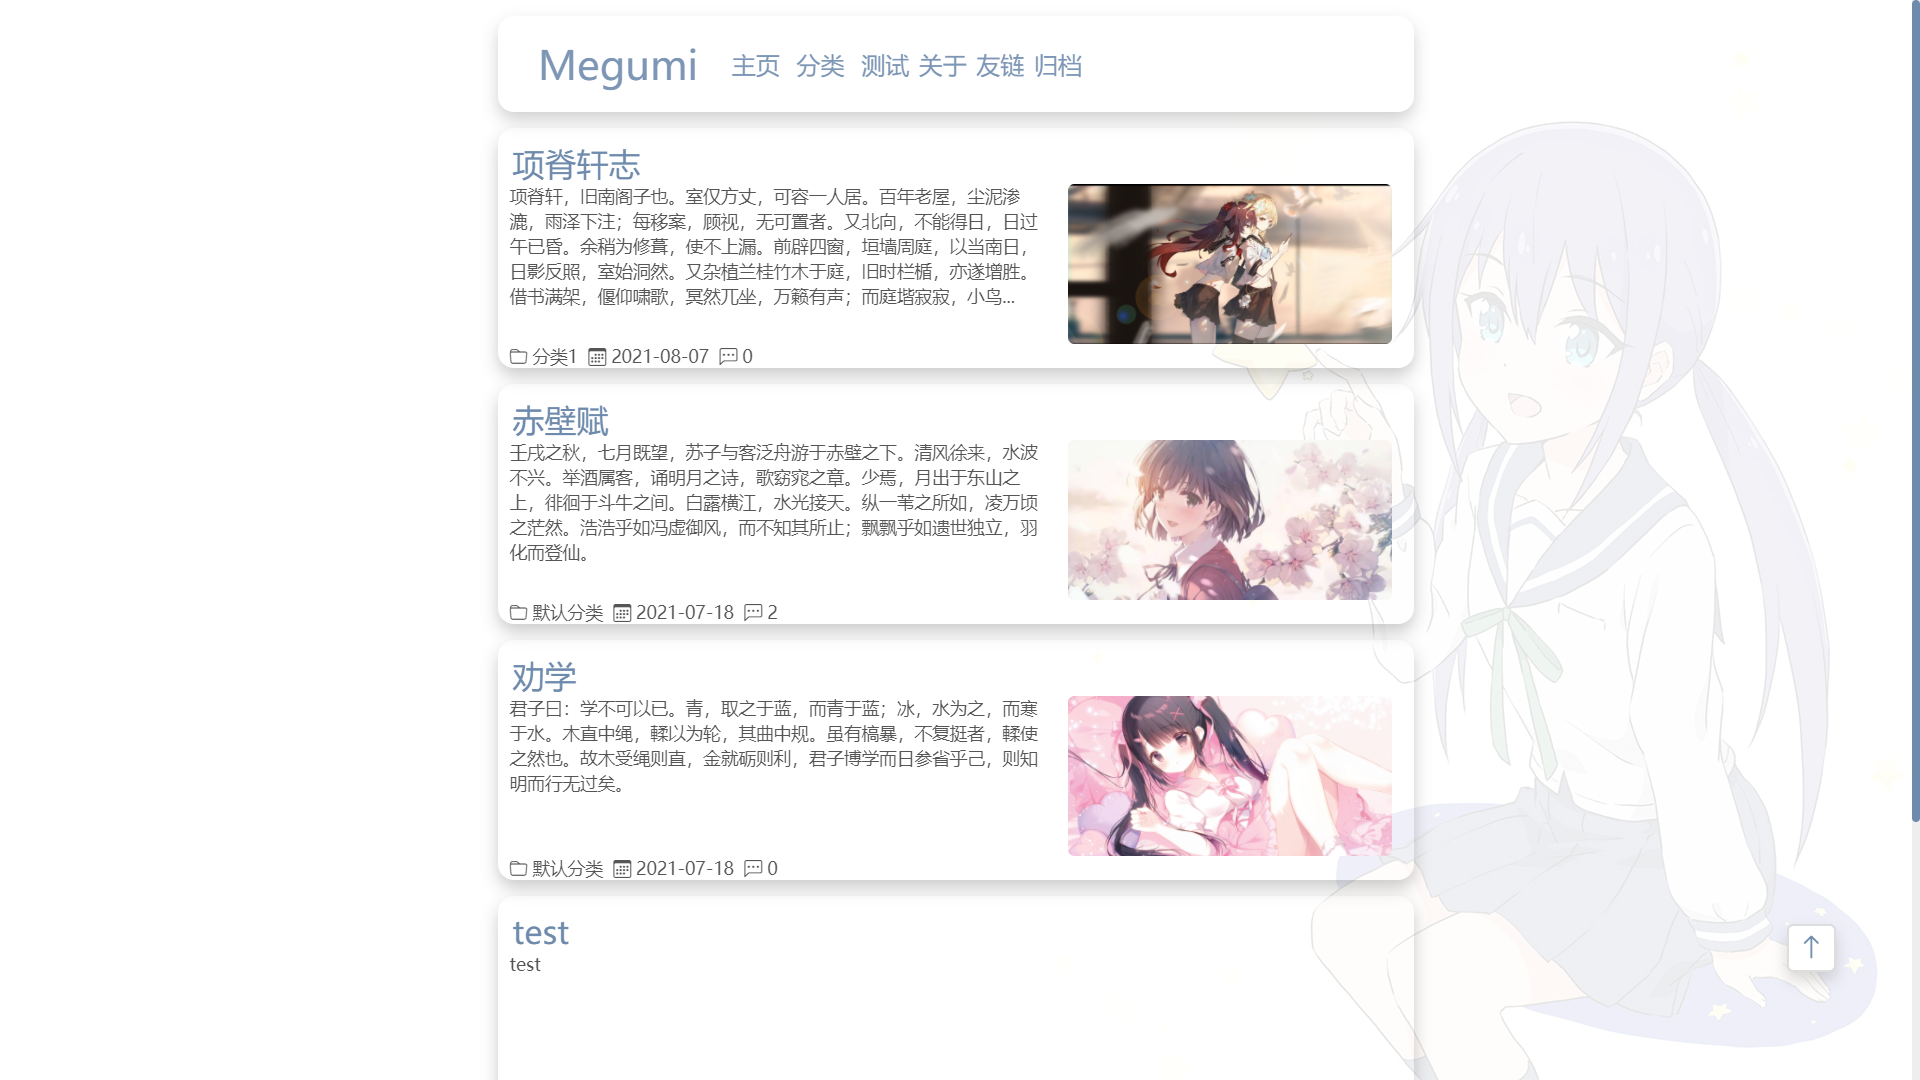
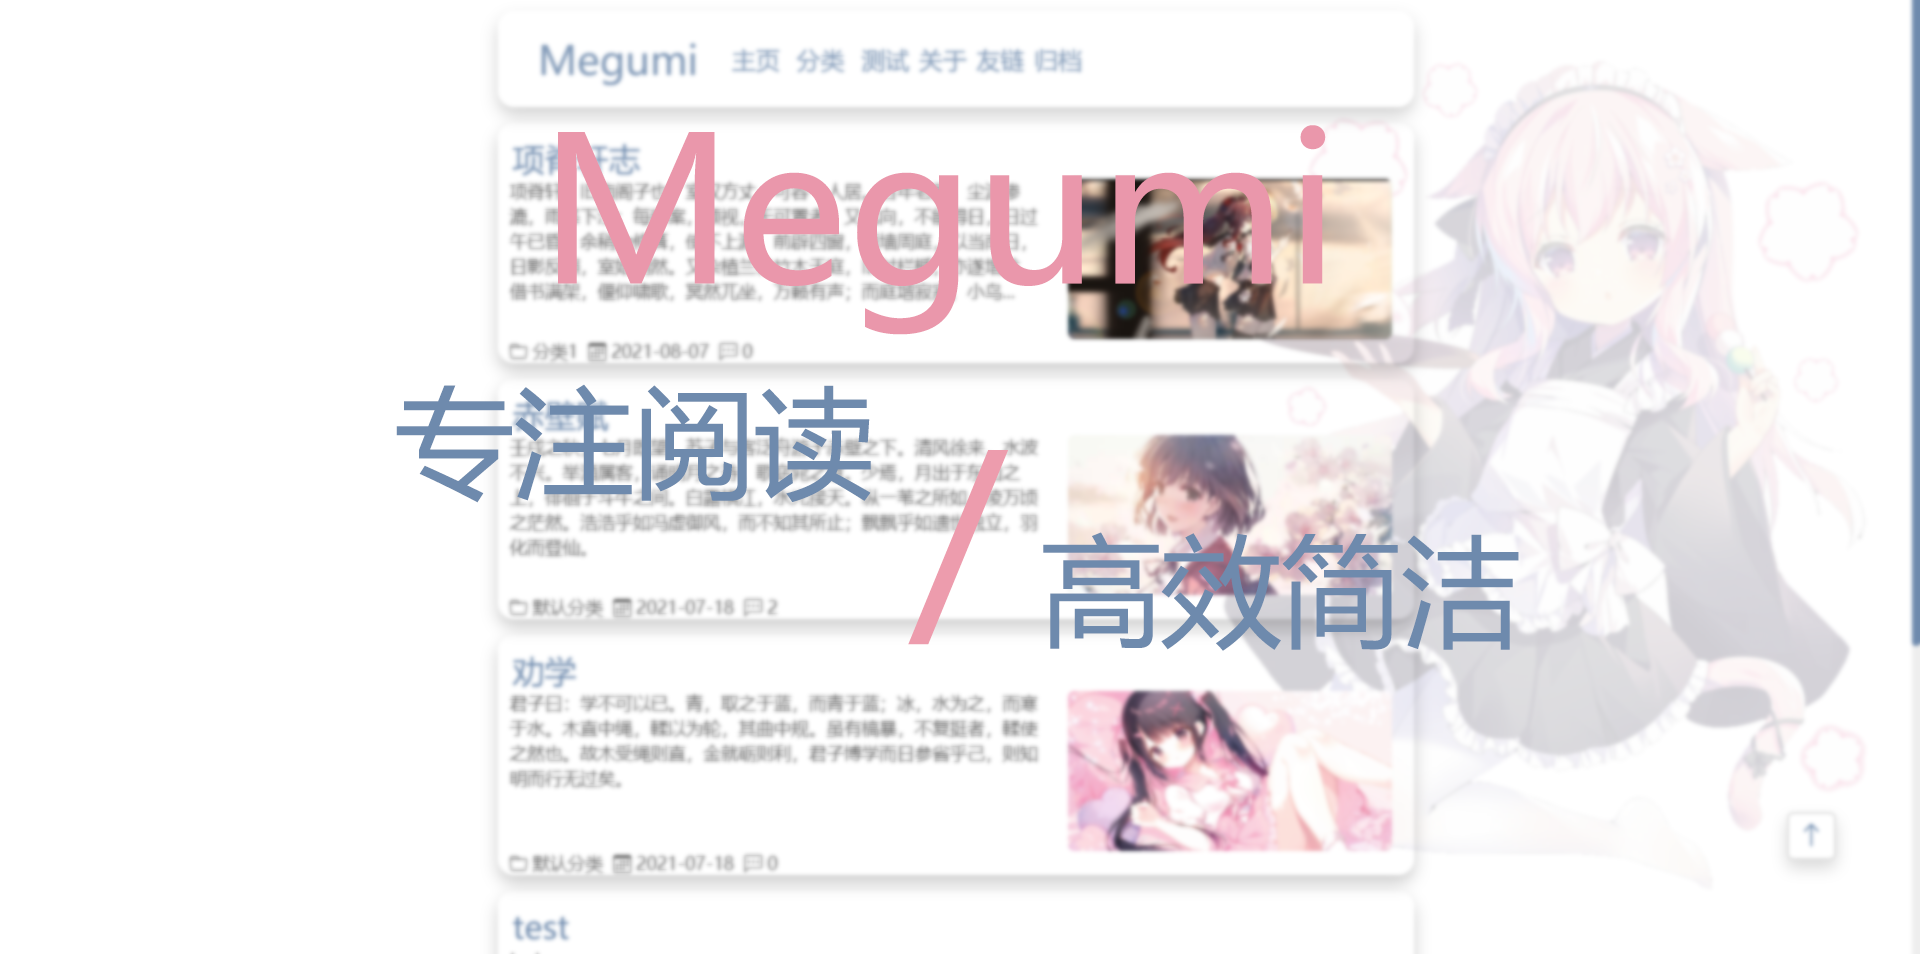
beta 0.8.2

diff --git a/other/style.css b/other/style.css
@@ -30,7 +30,7 @@ body::before{
     left: 0;
     right: 0;
     bottom: 0;
-    opacity: 0.1;
+    /*opacity: 0.2;*/
     z-index: -1;
     position: fixed;
     display: block;

diff --git a/functions.php b/functions.php
@@ -8,6 +8,10 @@ function themeConfig($form) {
     // 自定义背景图
     $background = new Typecho_Widget_Helper_Form_Element_Text('background', NULL, NULL, _t('站点背景'), _t('在这里填入一张图片地址，可以是随机图片API，不填则默认纯白背景'));
     $form -> addInput($background);
+    
+    // 自定义背景图
+    $background_other = new Typecho_Widget_Helper_Form_Element_Text('background_other', NULL, NULL, _t('背景透明度'), _t('在这里填入0~1之间的精确到个位小数，数字越小透明度越高，建议0.1~0.3,不填默认0.1'));
+    $form -> addInput($background_other);
 
      // 自定义作者信息
     $author_text = new Typecho_Widget_Helper_Form_Element_Textarea('author_text', NULL, NULL, _t('作者（或版权）信息'), _t('显示在文章区与评论区之间，不填则不显示，请控制字数。'));

diff --git a/index.php b/index.php
@@ -5,8 +5,8 @@
  *
  * @package Typecho Megumi Theme 
  * @author 甲鱼呀
- * @version 0.8.1
- * @link https://www.moeyu.top
+ * @version 0.8.2
+ * @link https://github.com/JiaYuOfficial/Typecho-Theme-Megumi
  */
 if (!defined('__TYPECHO_ROOT_DIR__')) exit;
  $this->need('header.php');
@@ -43,7 +43,7 @@ if (!defined('__TYPECHO_ROOT_DIR__')) exit;
         
         <a name="bottom"></a>
 
-		<p>Powered by <a href="http://typecho.org/">Typecho</a> • Theme<a href="https://gitee.com/JIAYUCNGA/typecho-theme-zero"> Megumi</a></p>
+		<p>Powered By <a href="http://typecho.org/">Typecho</a> • Theme By<a href="https://github.com/JiaYuOfficial/Typecho-Theme-Megumi"> Megumi</a></p>
 		<p>Copyright &copy <?php echo date("Y") ?> <?php $this->options->title() ?></p>
 		<div class="footer-cutom">
 		<?php $this -> options -> footers(); ?>

diff --git a/header.php b/header.php
@@ -30,8 +30,14 @@
         <link rel="stylesheet" href="<?php $this->options->siteUrl(); ?>usr/themes/zero/other/fancybox/jquery.fancybox.min.css">
         <script src="<?php $this->options->siteUrl(); ?>usr/themes/zero/other/fancybox/jquery.fancybox.min.js"></script>
 
+        <style>
+        body:before{opacity: 0.1;}
+        </style>
+
         <?php if($this -> options -> background): ?>
-        <style>body:before{background-image: url(<?php $this -> options -> background(); ?>)}</style>
+        <style>body:before{background-image: url(<?php $this -> options -> background(); ?>)}
+        body:before{opacity: <?php $this -> options -> background_other(); ?>;}
+        </style>
         <?php endif; ?>
 	
 	</head>

diff --git a/footer.php b/footer.php
@@ -6,7 +6,7 @@
 	<footer>
 		 <a name="bottom"></a>
 	
-		<p>Powered by <a href="http://typecho.org/">Typecho</a> • Theme<a href="https://gitee.com/JIAYUCNGA/typecho-theme-zero"> Megumi</a></p>
+		<p>Powered By <a href="http://typecho.org/">Typecho</a> • Theme By<a href="https://github.com/JiaYuOfficial/Typecho-Theme-Megumi"> Megumi</a></p>
 		<p>Copyright &copy <?php echo date("Y") ?> <?php $this->options->title() ?></p>
 
 		<div class="footer-cutom">
